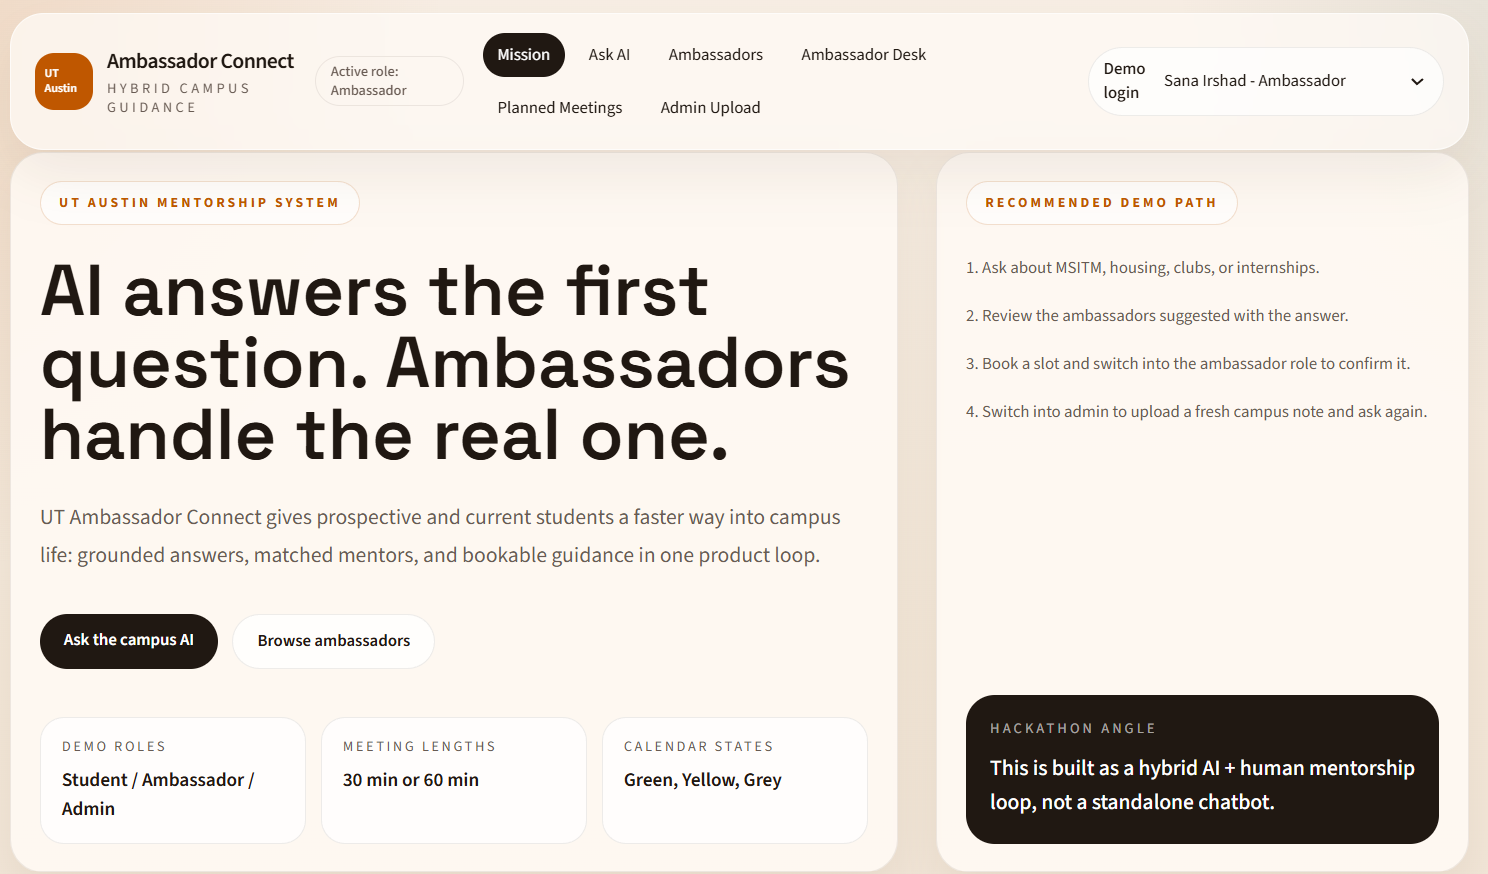
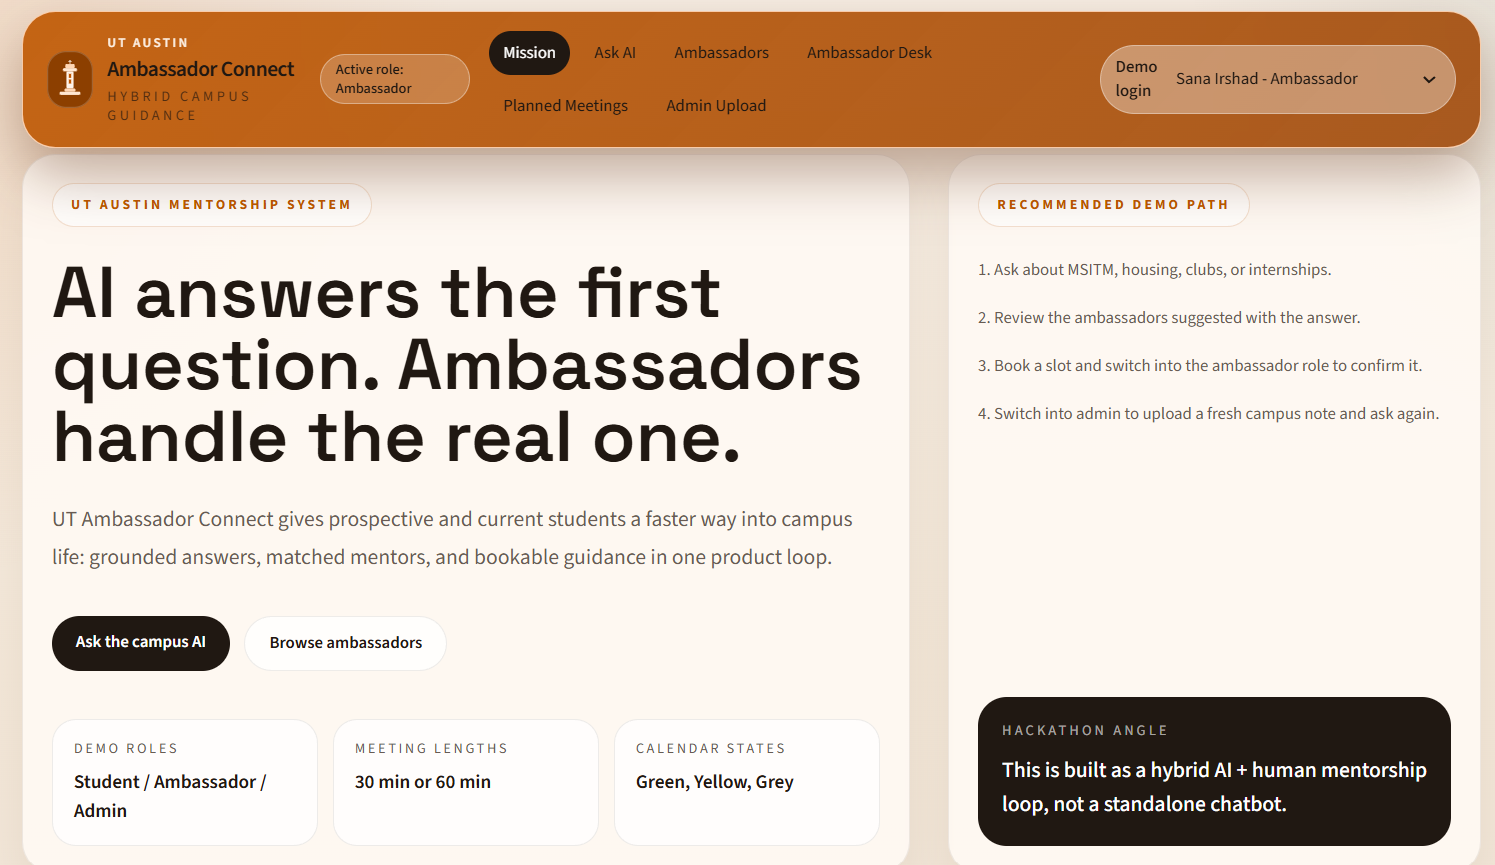
Fix demo data loading, and UI branding updates

diff --git a/apps/web/app/api/[...path]/route.ts b/apps/web/app/api/[...path]/route.ts
@@ -14,57 +14,75 @@ const HOP_BY_HOP_HEADERS = [
   "upgrade",
 ];
 
-function getApiBaseUrl() {
-  const apiBaseUrl = process.env.API_BASE_URL?.trim().replace(/\/$/, "");
-
-  if (!apiBaseUrl) {
-    throw new Error("API_BASE_URL is not configured.");
-  }
-
-  return apiBaseUrl;
+function getApiBaseUrls() {
+  const configured = process.env.API_BASE_URL?.trim().replace(/\/$/, "");
+  const candidates = [configured, "http://api:8000", "http://host.docker.internal:8000"];
+  const urls = candidates.filter((value): value is string => Boolean(value));
+  return [...new Set(urls)];
 }
 
-function buildTargetUrl(request: NextRequest, path: string[]) {
+function buildTargetUrl(request: NextRequest, path: string[], apiBaseUrl: string) {
   const pathname = path.join("/");
-  const url = new URL(`${getApiBaseUrl()}/${pathname}`);
+  const url = new URL(`${apiBaseUrl}/${pathname}`);
   url.search = request.nextUrl.search;
   return url;
 }
 
 async function proxyRequest(request: NextRequest, path: string[]) {
-  let target: URL;
-
-  try {
-    target = buildTargetUrl(request, path);
-  } catch (error) {
-    return Response.json(
-      {
-        detail:
-          error instanceof Error ? error.message : "API proxy configuration is invalid.",
-      },
-      { status: 500 },
-    );
+  const apiBaseUrls = getApiBaseUrls();
+  if (apiBaseUrls.length === 0) {
+    return Response.json({ detail: "API proxy configuration is invalid." }, { status: 500 });
   }
 
   const headers = new Headers(request.headers);
   HOP_BY_HOP_HEADERS.forEach((header) => headers.delete(header));
   headers.set("x-forwarded-host", request.headers.get("host") ?? "");
 
-  const response = await fetch(target, {
-    method: request.method,
-    headers,
-    body: request.method === "GET" || request.method === "HEAD" ? undefined : await request.arrayBuffer(),
-    redirect: "manual",
-  });
+  const body =
+    request.method === "GET" || request.method === "HEAD" ? undefined : await request.arrayBuffer();
 
-  const responseHeaders = new Headers(response.headers);
-  HOP_BY_HOP_HEADERS.forEach((header) => responseHeaders.delete(header));
+  let lastError: unknown = null;
 
-  return new Response(response.body, {
-    status: response.status,
-    statusText: response.statusText,
-    headers: responseHeaders,
-  });
+  for (const apiBaseUrl of apiBaseUrls) {
+    let target: URL;
+
+    try {
+      target = buildTargetUrl(request, path, apiBaseUrl);
+    } catch (error) {
+      lastError = error;
+      continue;
+    }
+
+    try {
+      const response = await fetch(target, {
+        method: request.method,
+        headers,
+        body,
+        redirect: "manual",
+      });
+
+      const responseHeaders = new Headers(response.headers);
+      HOP_BY_HOP_HEADERS.forEach((header) => responseHeaders.delete(header));
+
+      return new Response(response.body, {
+        status: response.status,
+        statusText: response.statusText,
+        headers: responseHeaders,
+      });
+    } catch (error) {
+      lastError = error;
+    }
+  }
+
+  return Response.json(
+    {
+      detail:
+        lastError instanceof Error
+          ? `API proxy request failed: ${lastError.message}`
+          : "API proxy request failed.",
+    },
+    { status: 500 },
+  );
 }
 
 type RouteContext = {

diff --git a/apps/web/components/app-shell.tsx b/apps/web/components/app-shell.tsx
@@ -30,18 +30,23 @@ export function AppShell({ children }: { children: React.ReactNode }) {
           <div className="flex flex-col gap-4 lg:flex-row lg:items-center lg:justify-between">
             <div className="flex items-center gap-4">
               <Link href="/" className="flex items-center gap-3">
-                <div className="flex h-12 min-w-12 items-center justify-center rounded-2xl bg-[var(--accent)] px-2 text-[10px] font-semibold leading-tight text-white">UT Austin</div>
+                <div className="flex h-12 w-12 items-center justify-center rounded-2xl bg-[#8c3f00] shadow-[inset_0_0_0_1px_rgba(255,255,255,0.2)]">
+                  <img src="/ut-tower.svg" alt="UT Tower" className="h-8 w-8" />
+                </div>
                 <div>
+                  <div className="text-[11px] font-semibold uppercase tracking-[0.18em] text-[rgba(255,245,236,0.95)]">
+                    UT Austin
+                  </div>
                   <div className="text-lg font-semibold tracking-tight text-[var(--ink)]">
                     Ambassador Connect
                   </div>
-                  <div className="text-xs uppercase tracking-[0.24em] text-[var(--muted)]">
+                  <div className="text-xs uppercase tracking-[0.24em] text-[rgba(55,33,16,0.82)]">
                     Hybrid campus guidance
                   </div>
                 </div>
               </Link>
               {session ? (
-                <span className="hidden rounded-full border border-[var(--line)] px-3 py-1 text-xs font-medium text-[var(--muted)] sm:inline-flex">
+                <span className="hidden rounded-full border border-[rgba(255,255,255,0.35)] bg-[rgba(255,255,255,0.2)] px-3 py-1 text-xs font-medium text-[var(--ink)] sm:inline-flex">
                   Active role: {roleLabel(session.user.role)}
                 </span>
               ) : null}
@@ -57,7 +62,7 @@ export function AppShell({ children }: { children: React.ReactNode }) {
                       "rounded-full px-3 py-2 text-sm transition-colors",
                       pathname === item.href
                         ? "bg-[var(--ink)] text-white"
-                        : "text-[var(--ink)] hover:bg-[var(--paper-strong)]",
+                        : "text-[var(--ink)] hover:bg-[rgba(255,255,255,0.35)]",
                     )}
                   >
                     {item.label}
@@ -65,7 +70,7 @@ export function AppShell({ children }: { children: React.ReactNode }) {
                 ))}
               </nav>
 
-              <label className="flex items-center gap-3 rounded-full border border-[var(--line)] bg-white/70 px-3 py-2 text-sm text-[var(--muted)]">
+              <label className="flex items-center gap-3 rounded-full border border-[rgba(255,255,255,0.35)] bg-[rgba(255,255,255,0.35)] px-3 py-2 text-sm text-[var(--ink)]">
                 <span className="font-medium text-[var(--ink)]">Demo login</span>
                 <select
                   className="min-w-56 bg-transparent text-[var(--ink)] outline-none"
@@ -92,7 +97,3 @@ export function AppShell({ children }: { children: React.ReactNode }) {
     </div>
   );
 }
-
-
-
-

diff --git a/apps/web/app/globals.css b/apps/web/app/globals.css
@@ -48,9 +48,9 @@ h4 {
 }
 
 .glass-panel {
-  background: rgba(255, 251, 247, 0.72);
-  border: 1px solid rgba(255, 255, 255, 0.65);
-  box-shadow: 0 20px 45px rgba(71, 45, 18, 0.08);
+  background: linear-gradient(135deg, rgba(191, 87, 0, 0.9), rgba(156, 66, 0, 0.86));
+  border: 1px solid rgba(255, 214, 184, 0.9);
+  box-shadow: 0 22px 48px rgba(84, 31, 0, 0.36);
 }
 
 .surface-card {
@@ -117,3 +117,5 @@ h4 {
 .fc .fc-event.booking-slot-selected {
   box-shadow: 0 0 0 3px rgba(17, 19, 21, 0.22);
 }
+
+

diff --git a/apps/web/lib/api.ts b/apps/web/lib/api.ts
@@ -8,7 +8,8 @@ import type {
   UserSummary,
 } from "@/lib/types";
 
-const API_BASE_URL = process.env.NEXT_PUBLIC_API_BASE_URL ?? "/api";
+// Local demo default: call FastAPI directly on host machine.
+const API_BASE_URL = process.env.NEXT_PUBLIC_API_BASE_URL ?? "http://localhost:8000";
 
 type RequestOptions = RequestInit & {
   token?: string | null;

diff --git a/apps/web/next.config.ts b/apps/web/next.config.ts
@@ -2,6 +2,14 @@ import type { NextConfig } from "next";
 
 const nextConfig: NextConfig = {
   distDir: process.env.NEXT_DIST_DIR ?? ".next",
+  async rewrites() {
+    return [
+      {
+        source: "/api/:path*",
+        destination: "http://api:8000/:path*",
+      },
+    ];
+  },
 };
 
 export default nextConfig;
